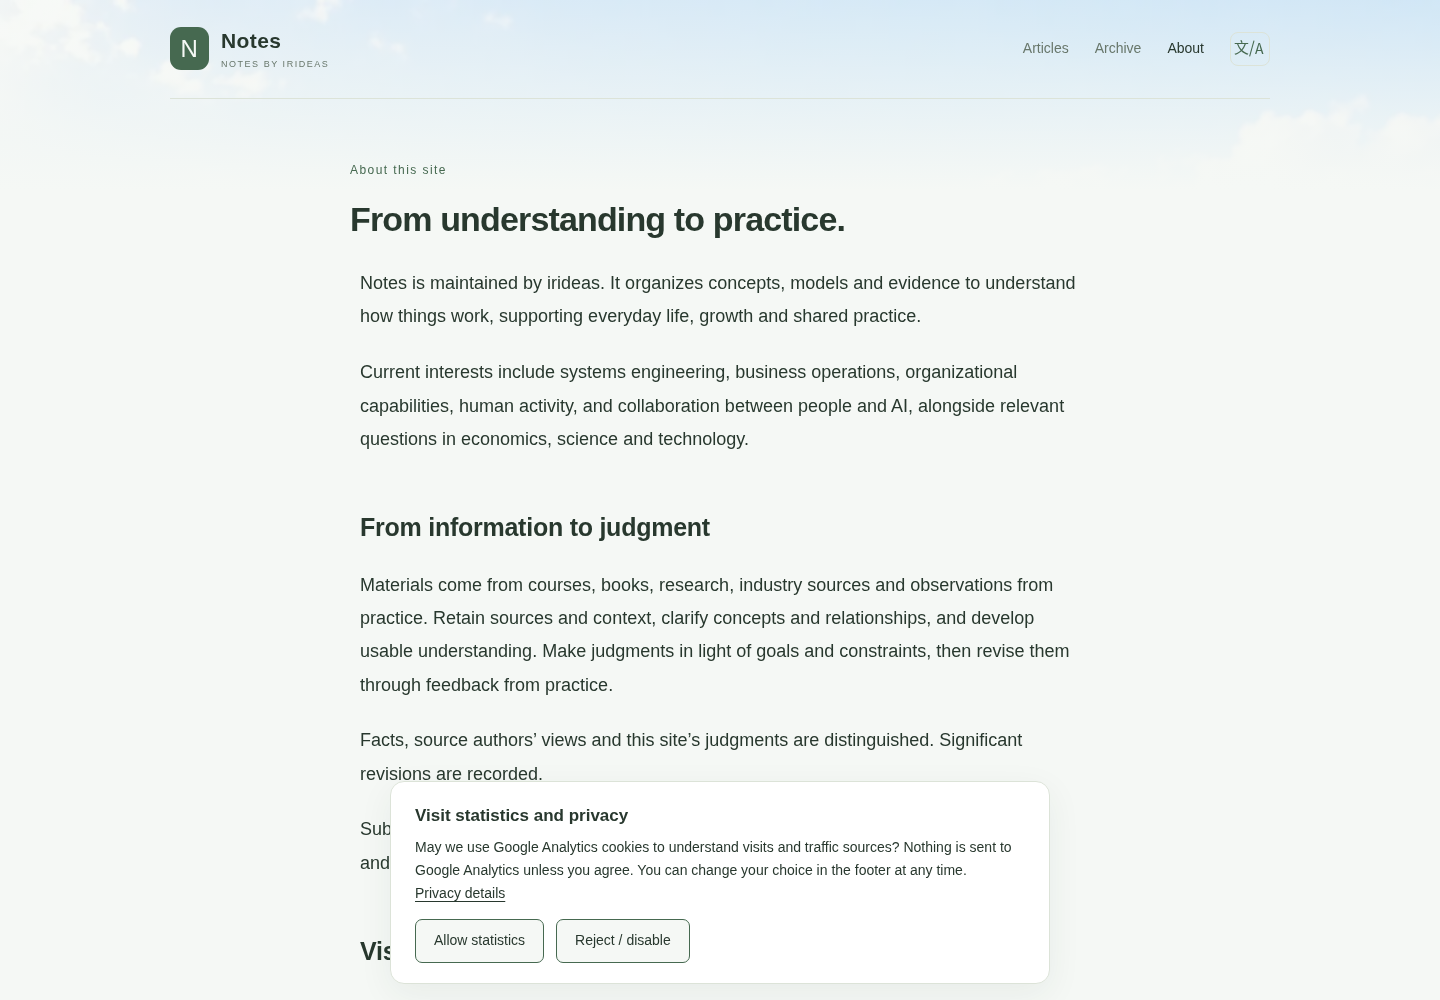
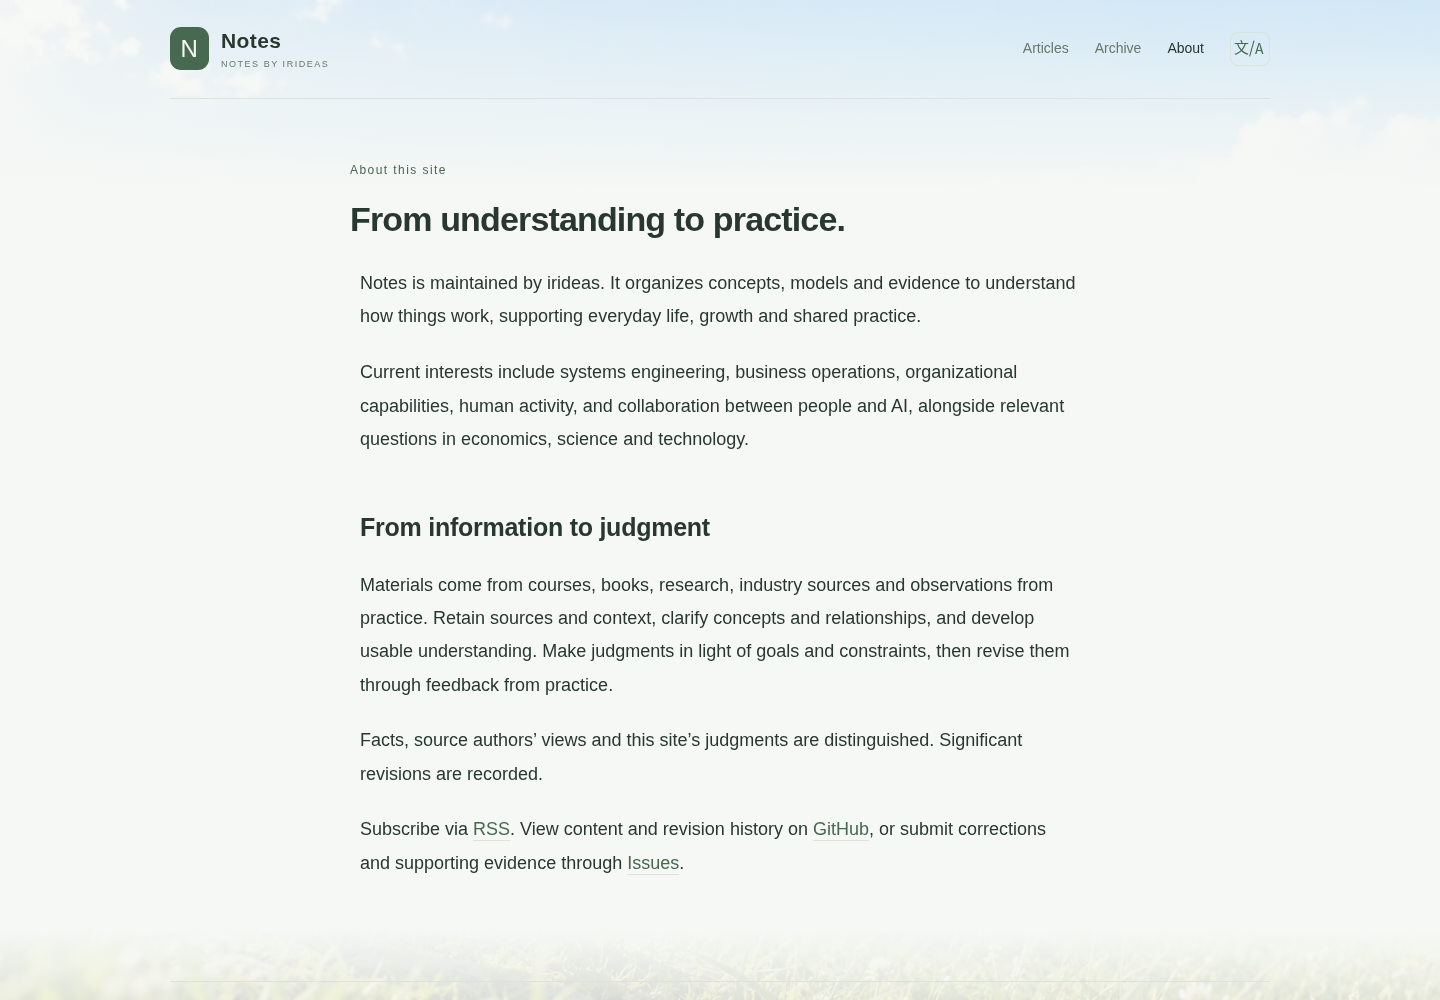
Replace GA with the supplied Cloudflare module beacon (#3)
Remove GA and its consent UI, load the supplied Cloudflare module only on production, and narrowly clean legacy GA storage. Remove both analytics-privacy sections and obsolete GA documentation. Preserve existing SEO, article content, comments and unrelated storage.

Changed region(s): [[0.0, 0.93, 1.0, 1.0], [0.2812, 0.806, 0.7188, 0.899]]

diff --git a/src/lib/i18n.ts b/src/lib/i18n.ts
@@ -35,10 +35,6 @@ const en = {
   aboutFour: 'Facts, source authors’ views and this site’s judgments are distinguished. Significant revisions are recorded.',
   subscribe: 'Subscribe via', viewHistory: 'View content and revision history on', or: 'or submit corrections and supporting evidence through',
   notFound: 'Page not found', notFoundDescription: 'Check the address or find an article in the archive.', backHome: 'Back to home',
-  analyticsHeading: 'Visit statistics and privacy',
-  analyticsDescription: 'With your consent, this site uses Google Analytics to understand visits and traffic sources. Google processes page views, referrals, browser and device information, and uses cookies to distinguish browsers. Before you consent, the Google tag is not loaded and no Analytics data is sent. This site does not add names, email addresses or an account User-ID to Analytics, and disables Google signals and advertising personalization in its tag.',
-  analyticsControls: 'Your choice is saved in this browser. Use “Statistics settings” in the footer to change it or withdraw consent; withdrawal stops collection and clears this site’s Analytics cookies. You can also restrict cookies in your browser or use Google’s Analytics opt-out add-on.', googlePrivacy: 'How Google uses data', analyticsOptOut: 'Analytics opt-out',
-  analyticsSettings: 'Statistics settings', analyticsConsent: 'May we use Google Analytics cookies to understand visits and traffic sources? Nothing is sent to Google Analytics unless you agree. You can change your choice in the footer at any time.', analyticsDetails: 'Privacy details', analyticsAccept: 'Allow statistics', analyticsDeny: 'Reject / disable',
 };
 const zh: Record<keyof typeof en, string> = {
   siteTitle: '记点儿信息', siteDescription: '梳理概念与模型，分析系统、组织与人类活动中的机制和变化，形成有依据、可修正的判断。',
@@ -58,10 +54,6 @@ const zh: Record<keyof typeof en, string> = {
   aboutFour: '事实、来源观点与本站判断分别说明，重要修改保留记录。',
   subscribe: '可以通过', viewHistory: '订阅更新，在', or: '查看内容与修改记录，或通过',
   notFound: '页面未找到', notFoundDescription: '请检查链接，或通过年月归档查找文章。', backHome: '返回首页',
-  analyticsHeading: '访问统计与隐私',
-  analyticsDescription: '经你同意后，本站使用 Google Analytics 了解访问情况与来源。Google 会处理页面浏览、来源、浏览器和设备信息，并使用 Cookie 区分浏览器。同意前不加载 Google 统计标签、不发送统计数据。本站不向 Analytics 添加姓名、邮箱或账户 User-ID，统计标签关闭 Google signals 和广告个性化功能。',
-  analyticsControls: '你的选择保存在当前浏览器。可随时通过页脚的“统计设置”更改选择或撤回同意；撤回后停止采集并清除本站的 Analytics Cookie。你也可以在浏览器中限制 Cookie，或使用 Google Analytics 停用插件。', googlePrivacy: 'Google 如何使用数据', analyticsOptOut: '停用 Analytics',
-  analyticsSettings: '统计设置', analyticsConsent: '是否允许使用 Google Analytics Cookie 了解访问情况与来源？同意前不会向 Google Analytics 发送信息。你可以随时通过页脚更改选择。', analyticsDetails: '隐私说明', analyticsAccept: '同意统计', analyticsDeny: '拒绝／停用',
 };
 export const ui = (locale: Locale) => locale === 'en' ? en : zh;
 export const articleCount = (n: number, locale: Locale) => locale === 'en' ? `${n} article${n === 1 ? '' : 's'}` : `${n} 篇文章`;

diff --git a/docs/operations/search-and-analytics.md b/docs/operations/search-and-analytics.md
@@ -1,6 +1,6 @@
 # 搜索发现与访问统计
 
-本页记录本站的 SEO、Google 访问统计配置和后续验证流程。发布权限与部署步骤仍以 [发布指南](deployment.md) 为准。
+本页记录本站的 SEO 和后续验证流程。发布权限与部署步骤仍以 [发布指南](deployment.md) 为准。
 
 ## 搜索发现
 
@@ -17,48 +17,12 @@
 
 | 字段 | 含义与维护 |
 |---|---|
-| `measurementId` | GA4 网站数据流的公开测量 ID，必须与正式域名的数据流一致。留空关闭统计控件及采集，不发送占位 ID。 |
 | `siteVerification` | Search Console HTML 验证标签的 `content` 值，只有取得真实值后才填写；空值不生成标签。它独立于统计同意，不依赖 GA 验证所有权。 |
 
-当前已配置站点的真实 GA4 测量 ID。Search Console 尚无验证值，所有权验证与 sitemap 提交待完成；其他搜索引擎的站长平台验证、提交也不能由代码或 robots 存在推断为完成。若平台要求 HTML 文件，按其真实文件名和内容放入 `public/`，发布后核对响应再在平台确认。不要虚构验证文件或登记未经执行的提交。
-
-GA 用于已同意访问者的页面访问与来源；Google 搜索查询词、展示、点击和搜索排名需在 Search Console 的效果报告查看，不可从 GA referrer 还原全部搜索词。两个系统口径不同，也不会补回接入之前的访问记录。
-
-## 同意、拒绝与撤回
-
-[统计组件](../../src/components/GoogleAnalytics.astro) 与 [浏览器逻辑](../../src/lib/analytics-consent.mjs) 采用 Basic Consent Mode：
-
-1. 首次访问展示当前语言的同意、拒绝和隐私说明入口；未同意或已拒绝时，不加载 Google tag、不预连接 Google、不发送无 Cookie ping。JavaScript 不运行时同样不采集。
-2. 同意后才加载一次 gtag.js，按顺序设置默认拒绝、更新 `analytics_storage` 为 `granted`、初始化统计。`ad_storage`、`ad_user_data`、`ad_personalization` 始终为 `denied`；关闭 Google signals、广告个性化；不传账户 User-ID 或添加自定义身份字段。
-3. 选择只以 `notes.analytics-consent` 保存在浏览器本地存储。页脚“统计设置 / Statistics settings”可重新打开控件；拒绝并停用会设置 GA 停用标记、清除本站 `_ga` 与该数据流的 Cookie、重载页面移除已加载标签。不会把已加载的标签切成会继续发送 ping 的拒绝模式。其他标签页同步撤回。
-4. Cookie 域限制为当前正式主机。只有 `Astro.site` 的正式 origin 允许启用；localhost、预览域名和 404 页不采集。没有可用本地存储时，每次访问重新征求选择；当前访问仍执行同意或拒绝。
-5. 中英文关于页披露统计用途、Google 处理的数据、Cookie、撤回入口及 Google 隐私说明。统计会受到拒绝、广告拦截、网络限制影响，不能当成全量访问量。
-
-GA 后台的增强型衡量、保留期、Google signals 和广告关联需另行核验；本站代码不能证明这些后台选项已按要求保存。维护时不增加广告、跨站身份或额外事件；调整采集范围时同步更新双语披露并重新审视已有同意。
-
-## 验证与日常维护
-
-运行 `npm run check`：执行元信息及同意行为回归测试，重新构建，再检查所有页面、图片、结构化数据、robots 与 XML sitemap。检查器要求 sitemap 与可索引页面完全对应，双语链接与 HTML 一致，文章修改时间一致；Google 标记必须与配置一致，静态 HTML 不得提前加载或预连接 Google。
-
-发布前在桌面、手机和两种语言检查：未选择时零 Google 请求；拒绝后及刷新后仍为零；同意后只加载一次正确 ID 的脚本；页脚重新打开并撤回后不再请求，Cookie 清除；语言切换定位对应页面。还要测试预览域名、存储不可用、跨标签页撤回。自动测试拦截 Google 请求，避免把测试流量发送到正式数据流。
-
-发布后按本次合并 SHA 确认 Pages 工作流成功，再检查线上双语页面、robots、sitemap、404 和统计控件；用一次明确同意的测试访问检查网络请求和 GA 实时报告。浏览器请求成功不等于后台报表已确认；记录尚待完成的后台验证，不用旧部署的成功结果替代本次发布证据。
+Search Console 尚无验证值，所有权验证与 sitemap 提交待完成；其他搜索引擎的站长平台验证、提交也不能由代码或 robots 存在推断为完成。若平台要求 HTML 文件，按其真实文件名和内容放入 `public/`，发布后核对响应再在平台确认。不要虚构验证文件或登记未经执行的提交。
 
 Search Console 获得授权后，验证 `https://notes.irideas.pro/`，提交 `https://notes.irideas.pro/sitemap.xml`，检查首页与中英文文章的 URL Inspection，随后观察索引与效果报告。提交与收录是不同阶段，不承诺立即出现查询词。
 
-## 本次本地验证记录
-
-2026-10-15 22:11（北京时间），Node.js 22.22.2：
-
-- `npm ci` 成功；使用工作区 npm 缓存与 `XDG_CONFIG_HOME`。当前 shell 默认 Node 24，不作为本次验证运行时。
-- `npm run check` 通过：13 项回归测试，Astro 构建 16 页，15 份 Markdown 与 1 对双语文章检查通过。sitemap 共 14 个可索引 URL、2 个文章实际修改时间；双语 404 均排除。
-- 临时注入重复 canonical、缺失 404 noindex、缺失分享图 alt、错误 lastmod、无效 XML、提前加载 Google、无效 JSON-LD，七种错误全部被拒绝；恢复产物后检查通过。错误样例未提交。
-- Chromium 在 390px 和 1440px 检查 14 个路由，无横向溢出；语言切换与手机文章目录有效。两语控件的同意前、拒绝及刷新后、撤回后均无 Google 请求；同意后仅加载一次正确脚本，撤回清除 Cookie。预览域名、不可用本地存储、跨标签页撤回、隐私说明入口均通过。
-- 浏览器测试将站点资源映射到本地构建产物，并拦截、模拟 Google 脚本；没有向真实数据流发送测试流量。它证明控件和加载行为，不代表 GA 后台已经收到线上数据。线上发布与实时报告另按本次 PR/部署记录核验。
-- `npm run discussion:check` 已尝试，环境的 GitHub GraphQL 请求返回 `Forbidden`，未记为通过。现有公开讨论 #1 可访问，包含两语文章回链；这不替代分类 ID、讨论唯一性的远端校验。本次未改文章内容、讨论登记或评论组件，本地双语同讨论检查通过。
-
-界面截图：[中文手机](../development/screenshots/analytics-zh-mobile.png) · [英文桌面](../development/screenshots/analytics-en-desktop.png)。
-
-官方依据：[Google Article](https://developers.google.com/search/docs/appearance/structured-data/article)、[站名](https://developers.google.com/search/docs/appearance/site-names)、[双语页面](https://developers.google.com/search/docs/specialty/international/localized-versions)、[sitemap](https://developers.google.com/search/docs/crawling-indexing/sitemaps/build-sitemap)、[Basic Consent Mode](https://developers.google.com/tag-platform/security/concepts/consent-mode)、[GA 配置字段](https://developers.google.com/analytics/devguides/collection/ga4/reference/config)。
+官方依据：[Google Article](https://developers.google.com/search/docs/appearance/structured-data/article)、[站名](https://developers.google.com/search/docs/appearance/site-names)、[双语页面](https://developers.google.com/search/docs/specialty/international/localized-versions)、[sitemap](https://developers.google.com/search/docs/crawling-indexing/sitemaps/build-sitemap)。
 
 返回：[开发指南](../development/guide.md) · [发布指南](deployment.md) · [项目入口](../../README.md)

diff --git a/docs/development/guide.md b/docs/development/guide.md
@@ -42,7 +42,6 @@ Node.js 默认版本在 [.nvmrc](../../.nvmrc)，最低兼容约束在 [package.
 | 全站样式与响应式布局 | `src/styles/global.css` |
 | 静态 Mermaid 渲染 | `src/lib/markdown-diagrams.mjs` 与 `astro.config.mjs` |
 | RSS 与 sitemap | `src/pages/rss.xml.js`、`src/pages/sitemap.xml.ts` |
-| Google 公开配置、同意控件与隐私披露 | `src/data/google.json`、`src/components/GoogleAnalytics.astro`、`src/lib/analytics-consent.mjs`、`src/components/About.astro` |
 | 图标与爬虫配置 | `public/` |
 | 本地及 CI 命令 | `package.json` 的 scripts |
 | 检查实现 | `scripts/check-project.mjs`、`scripts/check-articles.mjs`、`scripts/check-seo.mjs`、`scripts/check-metadata.test.mjs`、`scripts/check-analytics.test.mjs` |
@@ -52,7 +51,7 @@ Node.js 默认版本在 [.nvmrc](../../.nvmrc)，最低兼容约束在 [package.
 
 ## 检查与通过条件
 
-运行 `npm run check`。命令退出码为 0 才算自动检查通过；错误会指出文件和问题。它先运行时间、身份、元信息语义及统计同意行为的回归测试，再执行以下检查：
+运行 `npm run check`。命令退出码为 0 才算自动检查通过；错误会指出文件和问题。它先运行时间、身份、元信息语义的回归测试，再执行以下检查：
 
 1. Astro 构建：按 schema 验证字段、真实日期、领域词、图片引用与带时区的修改时间；图表语法错误使构建失败。
 2. 源文档：文章目录采用归档年月；正文不重复一级标题；根入口、项目文档和文章的本地文件链接及 Markdown 片段可解析。代码示例中的链接不参与扫描。
@@ -61,7 +60,7 @@ Node.js 默认版本在 [.nvmrc](../../.nvmrc)，最低兼容约束在 [package.
 5. RSS 和 sitemap：产物存在，其列出的本站页面可找到，两个订阅源不混入另一语言文章；XML sitemap 完整覆盖可索引页面且不含 404，双语配对与 HTML 一致，文章 `lastmod` 与真实修改时间一致。
 6. OKF 与原稿：只使用标准字段，来源脚注对应；Markdown 封面只渲染一次；GitHub Raw 地址和发现链接指向当前语言原稿，页面时间与 JSON-LD 对应，不生成本站原稿或提交链接。
 7. 评论：每个文章对恰有一个登记编号，无跨文章重复编号或多余登记；两语产物加载同一讨论，界面语言、浅色主题、延迟加载和 GitHub 直达链接正确。远端实际存在性另由 `npm run discussion:check` 核验。
-8. 搜索与统计：唯一标题、描述和规范地址；Open Graph 内容、封面与 Article JSON-LD 一致，首页站名及 404 索引控制正确，robots 可发现 sitemap。Google 配置与页面控件一致，静态 HTML 不提前加载 Google，两个关于页具备隐私披露。配置、同意行为与后台验证见 [搜索发现与访问统计](../operations/search-and-analytics.md)。
+8. 搜索与统计：唯一标题、描述和规范地址；Open Graph 内容、封面与 Article JSON-LD 一致，首页站名及 404 索引控制正确，robots 可发现 sitemap。[搜索发现与访问统计](../operations/search-and-analytics.md)。
 
 它不联网逐条探测外链，也不证明来源真实、论证成立或画面正确。来源核验由 [内容原则](../content/policy.md) 与编辑审核负责。
 

diff --git a/docs/operations/deployment.md b/docs/operations/deployment.md
@@ -52,7 +52,7 @@ gh run list --repo irideas/notes --workflow deploy.yml --limit 5 --json database
 
 域名、Pages 设置和 DNS 属于外部配置，改动前读取当前状态。日常写作和网站更新不需要改 DNS 或另建托管服务。站点地址调整时同时核对规范地址、RSS、sitemap 和爬虫配置。
 
-SEO、GA4 与站长平台验证配置见 [搜索发现与访问统计](search-and-analytics.md)。统计改动发布前核验两语同意、拒绝、撤回和零请求行为；发布后另外确认 GA 实时报告及 Search Console 的实际验证与提交状态，不能把构建成功等同于统计或收录完成。
+SEO 与站长平台验证配置见 [搜索发现与访问统计](search-and-analytics.md)。
 
 ## 失败处理与恢复
 
